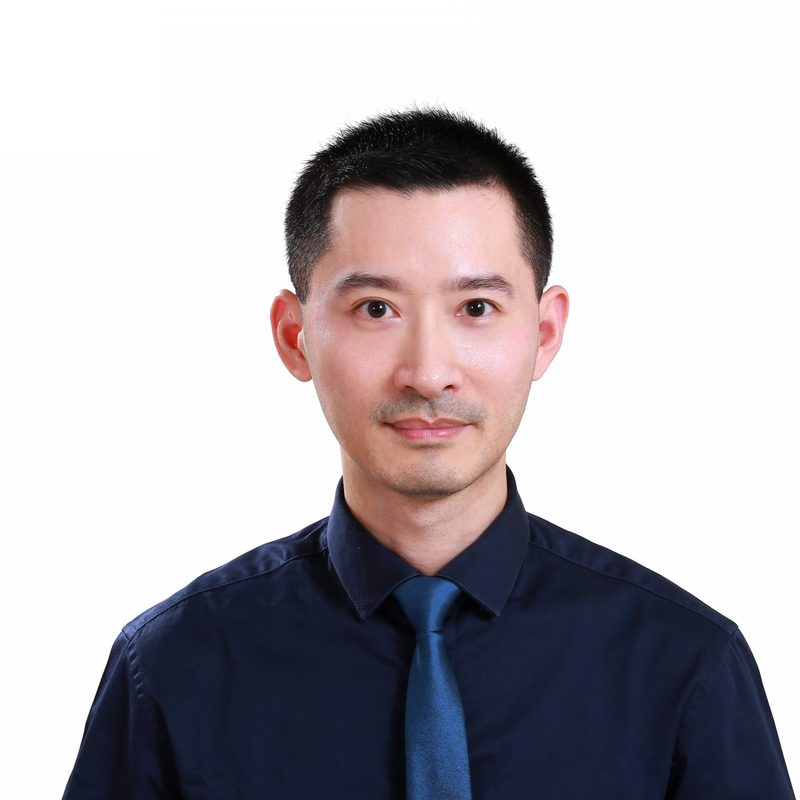
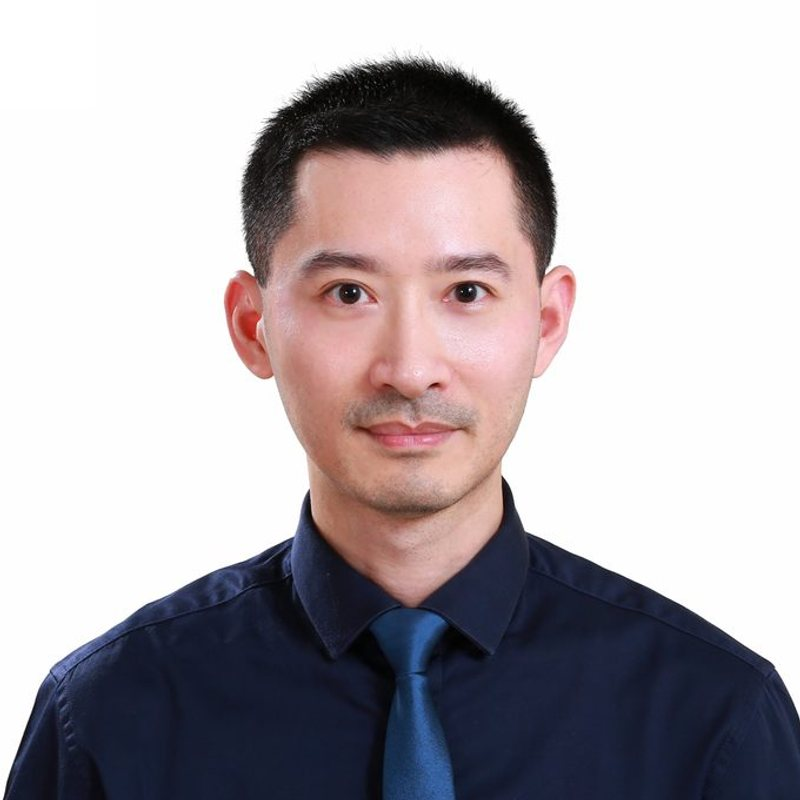
fix: center and tighten Frank Chuang portrait

Changed region(s): [[0.0, 0.0625, 1.0, 1.0], [0.8125, 0.9375, 0.875, 1.0], [0.6562, 0.75, 0.6875, 0.8125]]

diff --git a/content.js b/content.js
@@ -639,8 +639,8 @@ window.JUDGES = [
     nameEn: "Frank Chuang",
     affiliationZh: "國立政治大學資訊管理學系｜助理教授",
     affiliationEn: "Assistant Professor, Department of Management Information Systems, National Chengchi University",
-    imageJpg: "assets/judges/frank-chuang.jpg",
-    imageWebp: "assets/judges/frank-chuang.webp",
+    imageJpg: "assets/judges/frank-chuang.jpg?v=2",
+    imageWebp: "assets/judges/frank-chuang.webp?v=2",
     alt: { "zh-Hant": "莊豐源 照片", en: "Portrait of Frank Chuang" }
   },
   {
